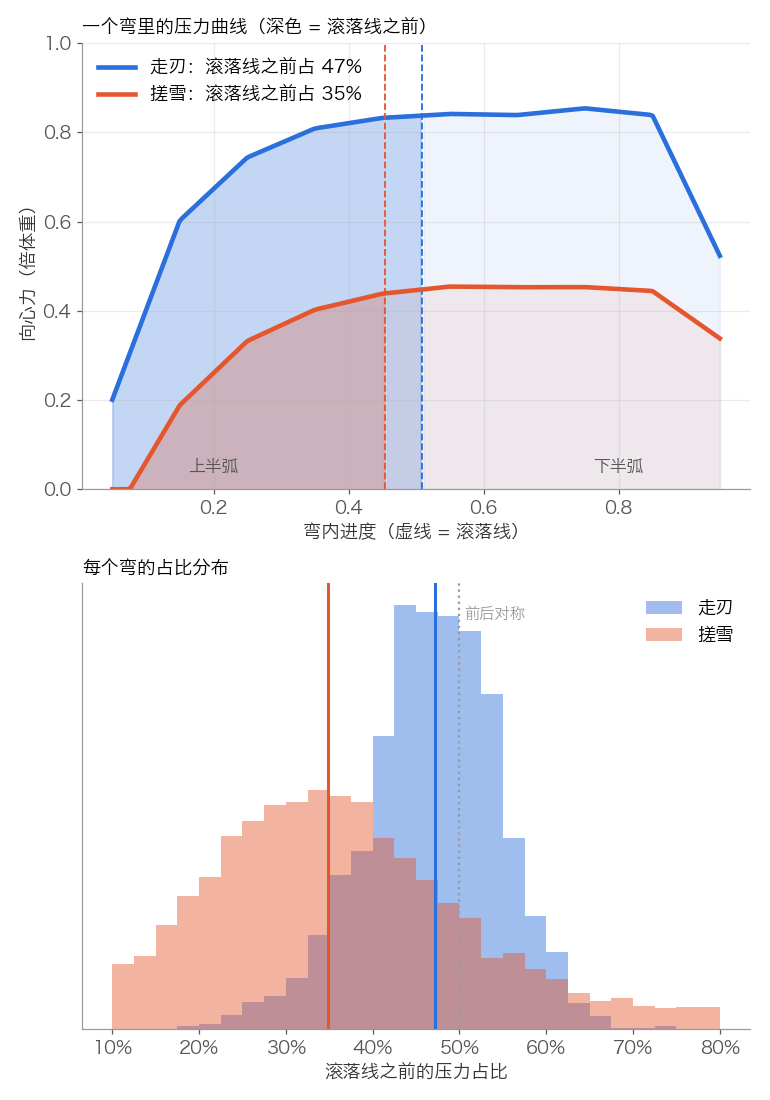
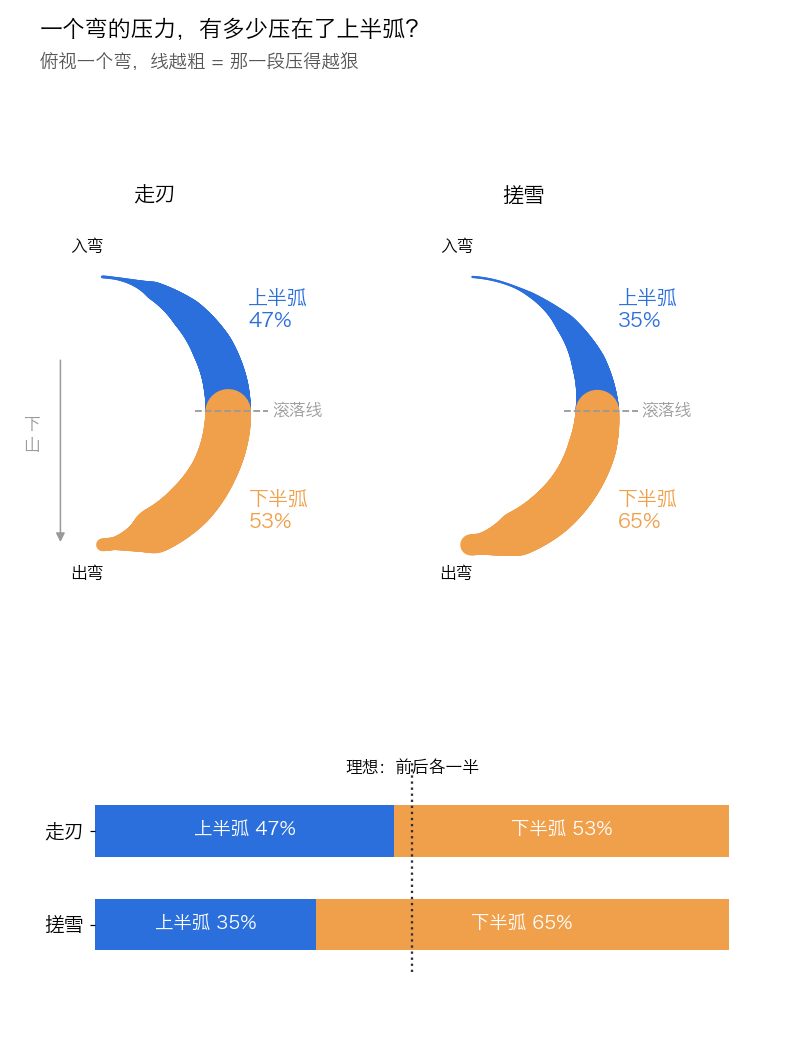
clearer timing and peak figures; neutral tags

diff --git a/index.html b/index.html
@@ -29,7 +29,7 @@
   .reply .tag.edge { background:#7a8396; }
   .reply h3 { font-size:17px; margin:2px 0 8px; }
   .reply p { margin:8px 0; }
-  .reply ul { margin:6px 0; padding-left:20px; }
+  .reply ul, .reply ol { margin:6px 0; padding-left:20px; } .reply li { margin:4px 0; }
   .reply img { width:100%; max-width:560px; margin-left:auto; margin-right:auto; border-radius:8px; margin:10px 0 4px; display:block; border:1px solid var(--line); }
   .cap { font-size:13px; color:var(--sub); }
   .kv { display:grid; grid-template-columns:repeat(3,1fr); gap:10px; margin:12px 0 6px; }
@@ -78,7 +78,7 @@
     <img src="img/rim_p18.jpg" alt="专题第 18 页：向心力公式" loading="lazy">
   </div>
   <div class="reply">
-    <span class="tag">Heygo 的回应 · App 已有</span>
+    <span class="tag">App 已有</span>
     <h3>公式里的速度、半径、向心力，Heygo App 里都有</h3>
     <div class="kv">
       <div><b>速度</b>v</div>
@@ -104,11 +104,11 @@
     <img src="img/rim_p20.jpg" alt="专题第 20 页：Peak 点" loading="lazy">
   </div>
   <div class="reply">
-    <span class="tag">Heygo 的回应 · 数据印证</span>
+    <span class="tag">数据印证</span>
     <h3>走刃时，立刃最大的那一刻就落在滚落线上</h3>
     <p>我们把大量走刃弯叠在一起看：立刃角在板头对准滚落线的时候达到最大，向心力也在这里进入全弯最高的一段。专题说的「板头对准滚落线、立刃最大、向心力最强」三件事同时发生，在真实滑行里是成立的。</p>
-    <img src="img/f2_peak.png" alt="走刃弯的立刃角和向心力曲线，峰值落在滚落线附近" loading="lazy">
-    <p class="cap">横轴是一个弯从入弯到出弯的进度，两条线各自按最大值缩放到 1。</p>
+    <img src="img/f2_peak.png" alt="俯视一个走刃的弯，立刃最大的位置在滚落线上" loading="lazy">
+    <p class="cap">俯视一个走刃的弯，线越粗表示立刃越大，圆点是立刃最大的位置。</p>
   </div>
 </section>
 
@@ -122,16 +122,18 @@
     <img src="img/rim_p21.jpg" alt="专题第 21 页：下半弧为什么不能再继续施压" loading="lazy">
   </div>
   <div class="reply">
-    <span class="tag new">Heygo 的回应 · 已能计算，App 暂未上线</span>
-    <h3>看一个弯的压力有多少落在上半弧</h3>
-    <p>把一个弯里的向心力画成一条曲线，以板头对准滚落线的时刻为界，看压力有多少落在上半弧。这个比例就是「施压时机」：</p>
-    <ul>
-      <li><b>接近一半</b>：上半弧压起来、下半弧收回来，前后基本对称，就是专题说的「上半弧做加法、下半弧做减法」。</li>
-      <li><b>明显低于一半</b>：上半弧没压起来，力气留到了下半弧，对应专题第 21 页说的下半弧继续施压。</li>
-    </ul>
-    <img src="img/f3_timing.png" alt="走刃和搓雪的压力曲线与滚落线前压力占比分布" loading="lazy">
-    <p class="cap">上：走刃和搓雪的平均压力曲线，深色是滚落线之前的部分。下：每个弯的占比分布。</p>
-    <p>结果和专题的判断一致：走刃的弯，滚落线之前的压力大约占一半；搓雪的弯，大部分压力落在下半弧。我们逐个滑手对比过，每一位都是走刃时比自己搓雪时压得更靠前：同一个人换一种滑法，压力的位置就跟着变，说明这个比例反映的是动作本身。</p>
+    <span class="tag new">已能计算，App 暂未上线</span>
+    <h3>看一个弯的压力，有多少压在了上半弧</h3>
+    <p>思路分三步：</p>
+    <ol>
+      <li><b>把弯切成两半</b>：从入弯到板头对准滚落线是上半弧，从滚落线到出弯是下半弧。</li>
+      <li><b>把整个弯的压力加起来算 100%</b>，看上半弧分到了多少。</li>
+      <li><b>和专题的要求对照</b>：上半弧把压力一路加上去，到滚落线附近最大，下半弧再慢慢收回来，前后两半就会各占一半左右。上半弧没压起来、到下半弧才发力，上半弧的占比就会明显少于一半。</li>
+    </ol>
+    <p>这个比例就是我们说的「施压时机」。</p>
+    <img src="img/f3_timing.png" alt="走刃和搓雪的弯里，上半弧和下半弧各分到多少压力" loading="lazy">
+    <p class="cap">上：俯视一个弯，蓝色是上半弧，橙色是下半弧，线越粗表示那一段压得越狠。下：两种滑法里，上下半弧各分到的压力比例。</p>
+    <p>结果和专题的判断一致：走刃时，上半弧分到 47%，接近一半；搓雪时，上半弧只分到 35%，大部分压力落在下半弧，正是专题第 21 页说的「下半弧继续施压」。我们逐个滑手对比过，每一位都是走刃时比自己搓雪时压得更靠前：同一个人换一种滑法，压力的位置就跟着变，说明这个比例反映的是动作本身。</p>
     <div class="note">这个指标我们已经能算出来，Heygo App 里暂时还没有上线。要不要做进 App、做成什么样，想先听听你们的意见（见最后一节）。</div>
   </div>
 </section>
@@ -145,7 +147,7 @@
     <img src="img/rim_p25.jpg" alt="专题第 25 页：共振的感觉" loading="lazy">
   </div>
   <div class="reply">
-    <span class="tag">Heygo 的回应 · App 已有一部分</span>
+    <span class="tag">App 已有一部分</span>
     <h3>释放得够不够，App 里已经能看；释放得早还是晚，我们正在研究</h3>
     <p>Heygo App 里的「压力释放」看的是换刃时旧弯的压力释放得够不够、顺不顺：释放充分，换刃更轻快，下一个弯接得更顺。</p>
     <p>专题讲的「释放过早 / 过晚」是时机问题，和第 03 节的施压时机是一对：一个看什么时候压上去，一个看什么时候收回来。我们很想知道，你们在教学里是怎么判断释放时机对不对的。</p>
@@ -161,7 +163,7 @@
     <img src="img/rim_p27.jpg" alt="专题第 27 页：重心分配" loading="lazy">
   </div>
   <div class="reply">
-    <span class="tag edge">Heygo 的回应 · 持续探索中</span>
+    <span class="tag edge">持续探索中</span>
     <h3>先从「压出来的效果」入手，再往动作本身走</h3>
     <p>Heygo 装在两只脚上，跟着雪板一起走，量到的是雪板的姿态和受力效果。身体往下压的那一下，最终会变成更深的立刃和更大的向心力，这些我们都能看到。</p>
     <p>下面几项是我们正在研究的方向，目标是把它们量得更准：</p>
